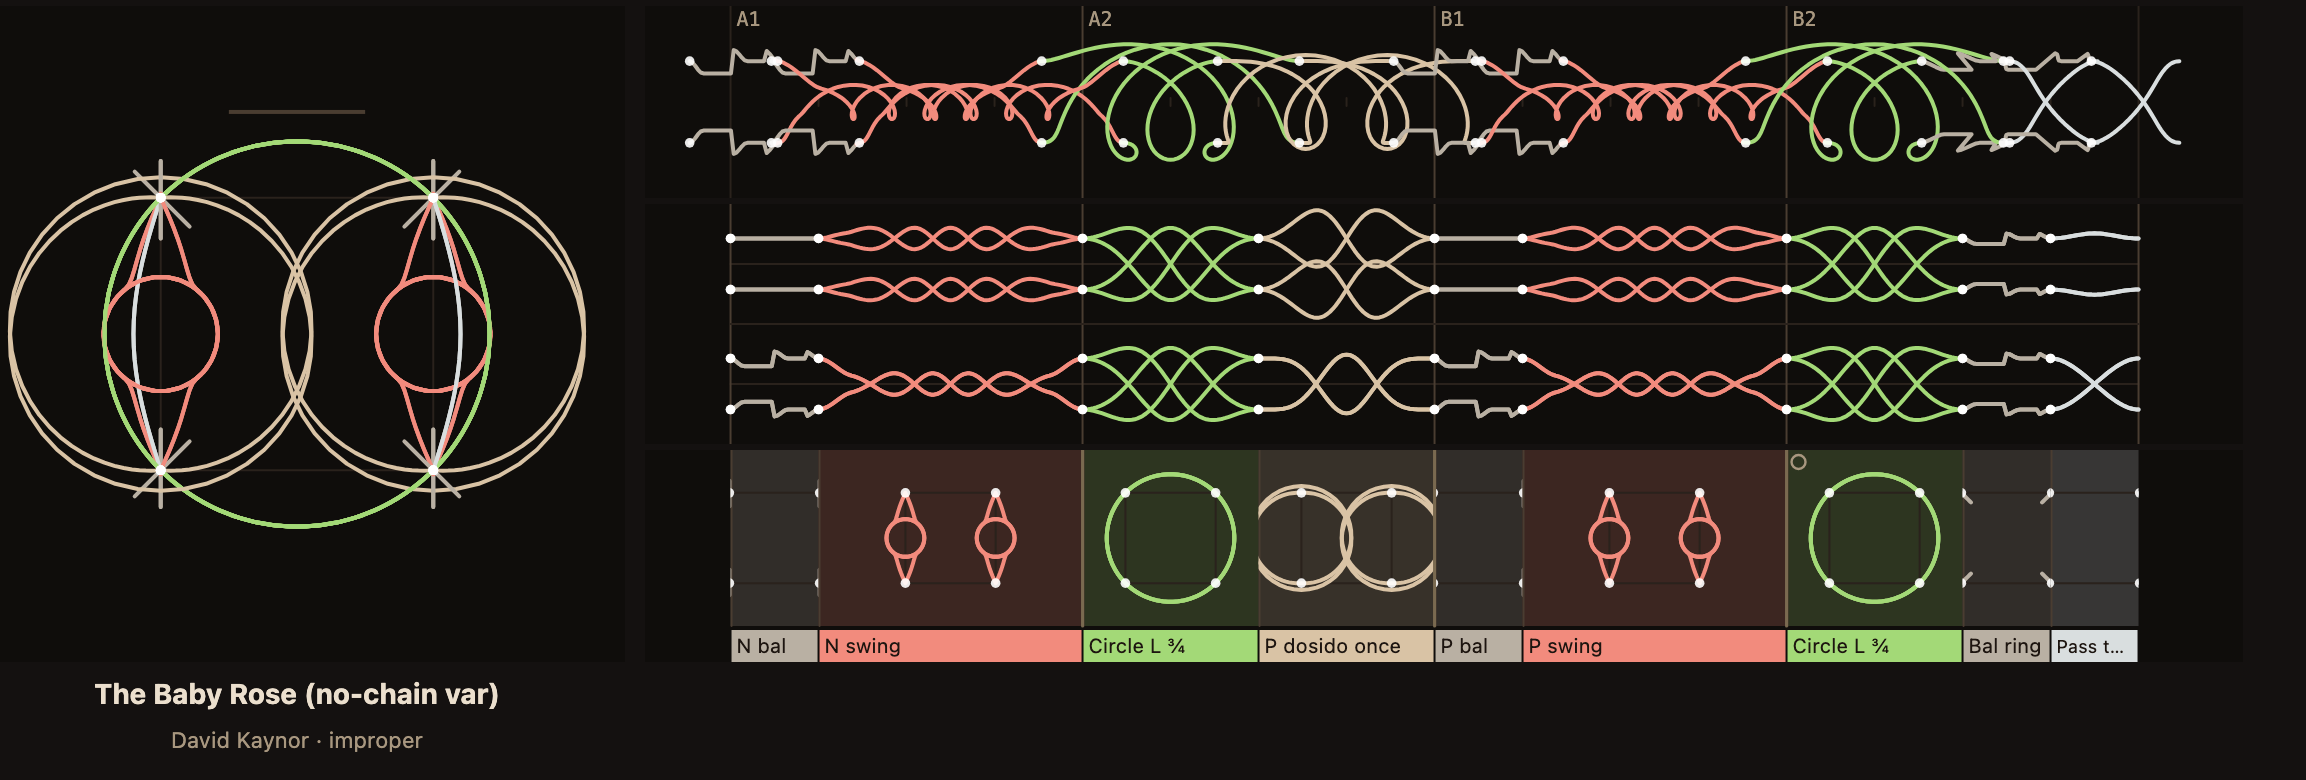
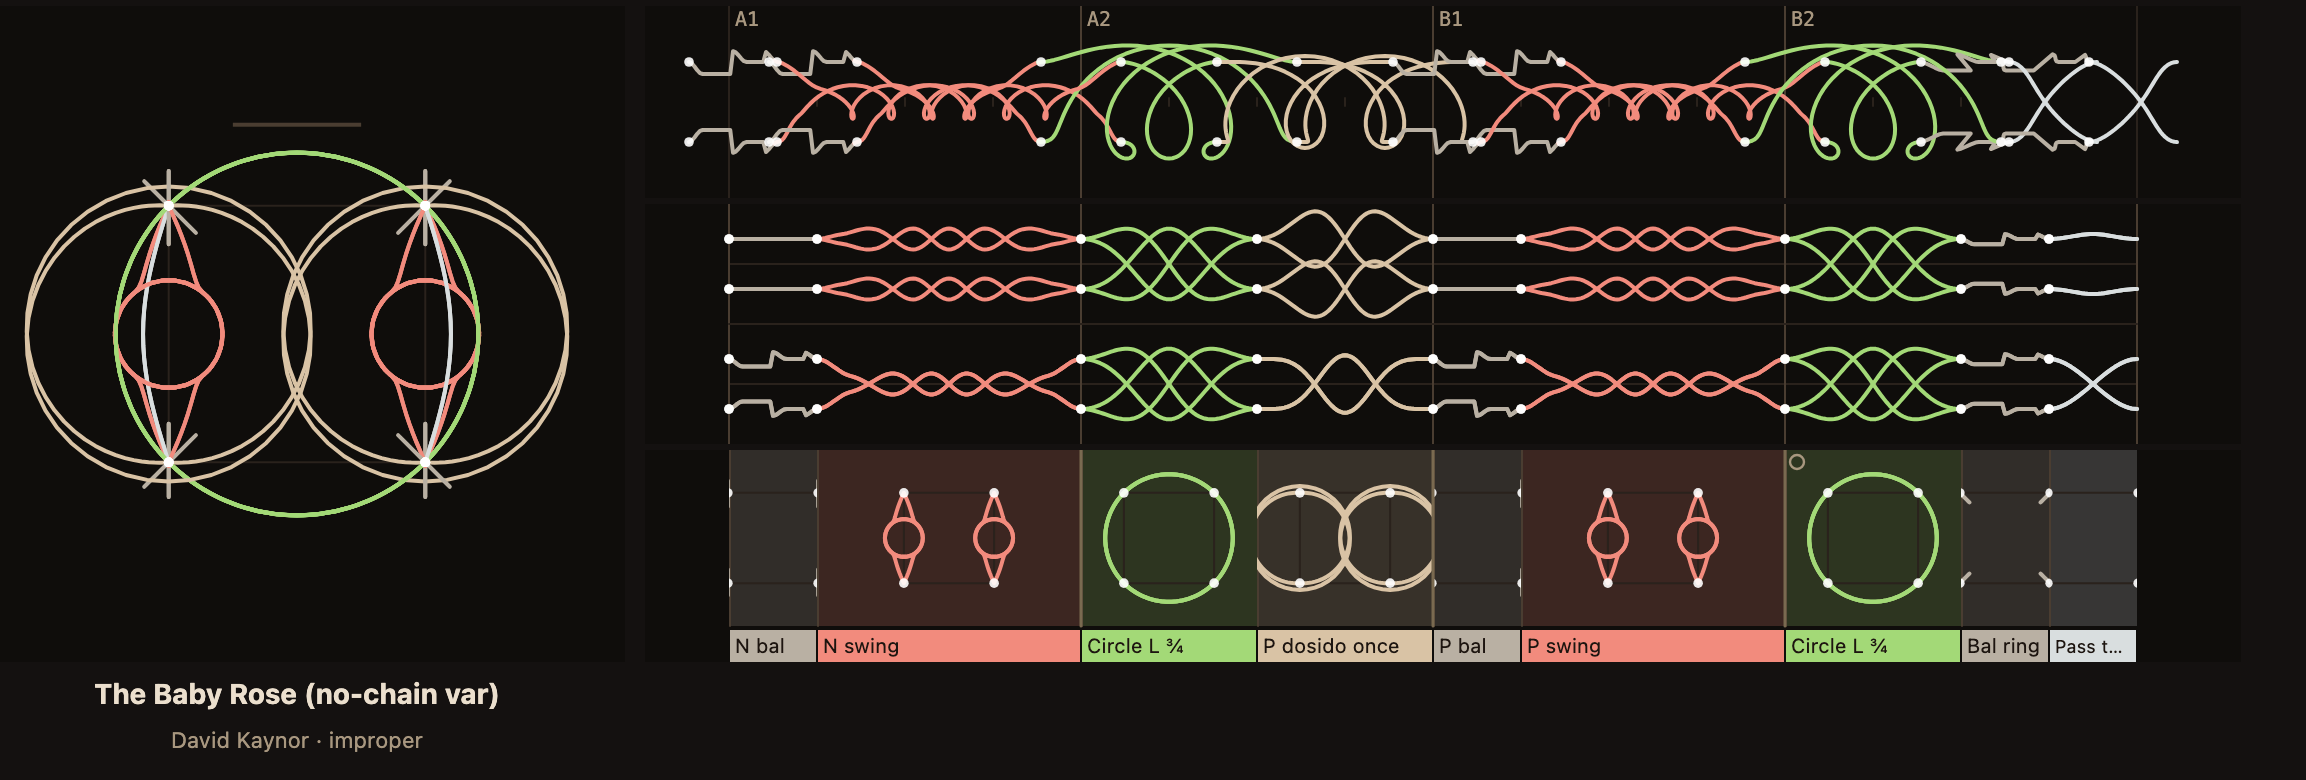
fix(post): glyphs no longer wrap down-the-hall excursions to the top; re-render gallery, cards, rows

diff --git a/static/examples/2026-09-13-contra-dance-visual-exploration/index.html b/static/examples/2026-09-13-contra-dance-visual-exploration/index.html
@@ -198,10 +198,10 @@ function downHall(beats){return F('Down the hall, turn as couples, up and bend t
   const k=smooth((t-14)/2);const ring={'-1.5':[-1,-1],'-0.5':[-1,1],'0.5':[1,1],'1.5':[1,-1]}[String(sl1)];return [lerp(sl1,ring[0],k),lerp(-0.3,ring[1],k)];});}
 function twirl(spec,beats){return F('Partners California twirl','twirl',beats||4,'twirl:'+spec,(r,t,S)=>{const o=mate(r,spec);if(!o)return hold(r,S);const c=mid(S[r],S[o]);const a0=ang(S[r][0]-c[0],S[r][1]-c[1]),r0=dist(S[r],c);
   const k=smooth(t/beats);return polar(c[0],c[1],a0+(isRobin(r)?180:-180)*k,r0*(isRobin(r)?1-0.45*Math.sin(Math.PI*k):1));});}
-function pass(beats,nm){return F(nm||'Pass through','pass',beats||4,'pass',(r,t,S)=>{const me=S[r];const dir=r[0]==='1'?1:-1;const k=smooth(t/beats);return [me[0]+0.2*dir*Math.sin(Math.PI*k)*(isRobin(r)?-1:1),me[1]+2*dir*k];});}
+function pass(beats,nm){const f=F(nm||'Pass through','pass',beats||4,'pass',(r,t,S)=>{const me=S[r];const dir=r[0]==='1'?1:-1;const k=smooth(t/beats);return [me[0]+0.2*dir*Math.sin(Math.PI*k)*(isRobin(r)?-1:1),me[1]+2*dir*k];});f.wrap=true;return f;}
 function pullBy(spec,hand,beats){const who={N:'Neighbours',P:'Partners',L:'Larks',R:'Robins'}[spec];return F(who+' pull by '+(hand==='R'?'right':'left'),'pass',beats||2,'pull:'+spec,(r,t,S)=>{const o=mate(r,spec);if(!o)return hold(r,S);
   const k=smooth(t/beats);const d=[S[o][0]-S[r][0],S[o][1]-S[r][1]];const L=leftOf(d);const sg=hand==='R'?-1:1;const n=Math.hypot(L[0],L[1])||1;return [lerp(S[r][0],S[o][0],k)+sg*0.15*L[0]/n*Math.sin(Math.PI*k),lerp(S[r][1],S[o][1],k)+sg*0.15*L[1]/n*Math.sin(Math.PI*k)];});}
-function slide(beats){const f=F('Slide left along the set','slice',beats||2,'slide',(r,t,S)=>{const me=S[r];const dir=r[0]==='1'?-1:1;return [me[0],me[1]+2*dir*smooth(t/beats)];});f.recentre=true;return f;}
+function slide(beats){const f=F('Slide left along the set','slice',beats||2,'slide',(r,t,S)=>{const me=S[r];const dir=r[0]==='1'?-1:1;return [me[0],me[1]+2*dir*smooth(t/beats)];});f.recentre=true;f.wrap=true;return f;}
 function passOcean(beats){return F('Pass the ocean','wave',beats||4,'ocean',(r,t,S)=>{const me=S[r];const s=Math.sign(me[0])||1;const tg=[isRobin(r)?-0.5*s:-1.5*s,0];const k=smooth(t/beats);return [lerp(me[0],tg[0],k),lerp(me[1],tg[1],k)+0.25*s*Math.sin(Math.PI*k)];});}
 
 // ============================================================ the dances (figure text from contra-card/dances.csv)
@@ -222,8 +222,8 @@ const DANCES=[
 const DT=1/8;
 function buildDance(d){const P={};ROLES.forEach(r=>P[r]=d.start[r].slice());const samples={};ROLES.forEach(r=>samples[r]=[]);const figs=[];let T=0;
   d.figs.forEach((fg,fi)=>{const S={};ROLES.forEach(r=>S[r]=P[r].slice());figs.push({name:fg.name,family:fg.family,sig:fg.sig,start:T,beats:fg.beats,i:fi,S});
-    for(let i=0;i<fg.beats/DT;i++){const t=i*DT;ROLES.forEach(r=>{const p=fg.fn(r,t,S);samples[r].push({t:T+t,x:p[0],y:wrapY(p[1]),fi});});}
-    ROLES.forEach(r=>{const e=fg.recentre?S[r]:fg.fn(r,fg.beats,S);P[r]=[e[0],wrapY(e[1])];});T+=fg.beats;});
+    for(let i=0;i<fg.beats/DT;i++){const t=i*DT;ROLES.forEach(r=>{const p=fg.fn(r,t,S);samples[r].push({t:T+t,x:p[0],y:fg.wrap?wrapY(p[1]):p[1],fi});});}
+    ROLES.forEach(r=>{const e=fg.recentre?S[r]:fg.fn(r,fg.beats,S);P[r]=[e[0],fg.wrap?wrapY(e[1]):e[1]];});T+=fg.beats;});
   ROLES.forEach(r=>{const p=P[r];samples[r].push({t:T,x:p[0],y:p[1],fi:d.figs.length-1});});
   const expect=d.form.startsWith('Becket')?d.start:{'1L':[1,1],'1R':[-1,1],'2L':[-1,-1],'2R':[1,-1]};
   const err=Math.max(...ROLES.map(r=>dist(P[r],expect[r])));
@@ -268,7 +268,7 @@ function drawInk(g,dance,map,o){o=o||{};const upTo=o.upTo==null?OPT.upTo:o.upTo;
 function setMarks(g,cx,cy,S){const P=paper();g.strokeStyle=P.grid;g.lineWidth=1;g.strokeRect(cx-S,cy-S,2*S,2*S);g.fillStyle=P.grid2;
   ROLES.forEach(r=>{const p=IMPROPER[r];g.fillRect(cx+p[0]*S-2,cy+p[1]*S-2,4,4);});g.fillStyle=P.grid2;g.fillRect(cx-S*0.5,cy-S*1.6-3,S,2);}
 // 0a pen plot
-function drawGlyph(cv,dance,size,o){o=o||{};const g=setup(cv,size,size);const P=paper();g.fillStyle=P.bg;g.fillRect(0,0,size,size);const S=size/(2*dance.ext+0.6),cx=size/2,cy=size/2;
+function drawGlyph(cv,dance,size,o){o=o||{};const g=setup(cv,size,size);const P=paper();g.fillStyle=P.bg;g.fillRect(0,0,size,size);const S=size/(2*dance.ext+0.9),cx=size/2,cy=size/2;
   if(!o.bare)setMarks(g,cx,cy,S);drawInk(g,dance,s=>[cx+s.x*S,cy+s.y*S],Object.assign({penW:o.penW},o));return {S,cx,cy};}
 // 0c march
 function drawMarch(cv,dance,w,h,V,o){o=o||{};const H=h+(o.labels?LH+2:0);const g=setup(cv,w,H);const P=paper();g.fillStyle=P.bg;g.fillRect(0,0,w,H);const S=h/(2*EXT+0.4),x0=S*1.8+6,cy=h/2;
